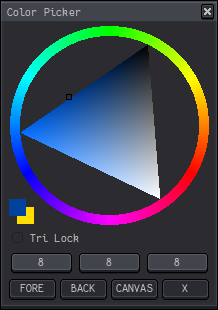
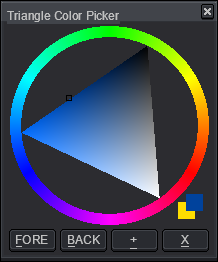
Update readme.

diff --git a/README.md b/README.md
@@ -16,21 +16,37 @@ If an error message in Aseprite's console appears, check if the script folder is
 
 A hot key can be assigned to the script by going to `Edit > Keyboard Shortcuts`. The search input box in the top left of the shortcuts dialog can be used to locate the script by its file name.
 
-The dialog can be closed with `Alt+X`. The foreground color can be retrieved with `Alt+F`; the background color, with `Alt+B`. `Alt+A` will pick a color from the sprite canvas at the cursor position. When the default theme font is used, these shortcuts will be underlined.
+The dialog can be closed with `Alt+X`. The options menu can be opened with `Alt++`. The foreground color can be retrieved with `Alt+F`; the background color, with `Alt+B`. When the default theme font is used, these shortcuts will be underlined.
 
-When the dialog canvas has focus, left click will change the foreground color; right click will adjust the background color. Clicking on the swatches in the bottom-left corner will swap the fore and background color. Clicking and dragging within the hue ring will change the unquantized hue. When the `Shift` key is held down, this change happens in 15 degree steps. Pressing the arrow left and right keys will nudge the hue. Pressing the arrow up and down keys will nudge the value. Holding `Alt` while pressing the up and down keys will nudge the saturation.
+When the dialog canvas has focus, left click will change the foreground color; right click will adjust the background color. Clicking on the swatches in the bottom-right corner will swap the fore and background color. Clicking and dragging within the hue ring will change the unquantized hue. When the `Shift` key is held down, this change happens in 15 degree steps. Pressing the arrow left and right keys will nudge the hue. Pressing the arrow up and down keys will nudge the value. Holding `Alt` while pressing the up and down keys will nudge the saturation.
 
 ![Expanded Screen Cap](screenCap1.png)
 
 When the picker is wider than it is high, it will show text information about the color. Hue is expressed in degrees; other data, in percentages. When a color's saturation is zero, its hue is undefined. When its value is zero, both hue and saturation are undefined. This is easier to understand by visualizing the HSV model as an upside-down cone, where black is at the tip.
 
+![Options Menu](screenCap5.png)
+
+When the options dialog is opened, it will assume focus. Dialog widgets can be navigated with the `Tab` key.
+
+![Ring rotation](screenCap7.png)
+
+The hue ring's angular offset can be customized. Above, red is offset by 90 degrees, so it is at the top of the picker.
+
 ![Quantized Screen Cap](screenCap2.png)
 
-Colors can be quantized to a bit depth in RGB using the sliders beneath the canvas. Quantization will lead to significant hue shift between colors within the same shading triangle.
+Colors can be quantized to a bit depth in RGB. Quantization leads to significant hue shift between colors within the same shading triangle.
 
 ![Lock Tri](screenCap3.png)
 
-The triangle's rotation can be locked by clicking the check box. A white reticle will indicate the current hue position.
+When the triangle's rotation is locked, a white reticle indicates the current hue position.
+
+![Alpha Bar](screenCap4.png)
+
+When the alpha bar is displayed, alpha is read and written to and from the canvas. Otherwise, alpha is ignored. Extra text displays to the left of the hue ring. 
+
+![Hex Code Entry](screenCap6.png)
+
+After the hex button is enabled in the options menu, clicking on it will open a dialog. This dialog will assume focus. A text entry field allows entry of a hex code *per the bit depths specified*. For example, `#ABCD` in RGB565 expands to `#AD796B` in RGB888. The color preview udpates as the code is entered. Pressing the `OK` button confirms and closes the dialog. Dialog widgets can be navigated with the `Tab` key.
 
 ## Caveat
 
